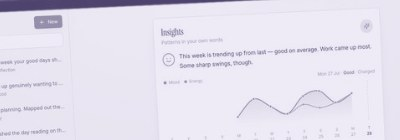
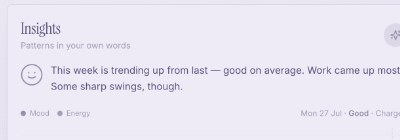
Board: the Between the Lines peek becomes a plain desktop print
The f3 folder sheet swaps the hero-photo print for a duotoned print of
the desktop app itself — the Insights card with the week's headline —
per her call; hero on the case study stays the laptop photo.

diff --git a/between-the-lines.html b/between-the-lines.html
@@ -562,10 +562,10 @@ const T = {
 /* ---- assets: every plate is real — captures from the running build,
    annotated plates and photo composites; no placeholders left. ---- */
 const ASSETS = {
-  /* hero: the real desktop capture composited into the laptop photo;
-     the same print, duotoned, peeks out of the folder on the board
-     (assets/folder-peek.html; compositing script sits next to the raw
-     photo sources, outside the repo) */
+  /* hero: the real desktop capture composited into the laptop photo
+     (compositing script sits next to the raw photo sources, outside
+     the repo); the board folder peeks a duotoned print of the plain
+     desktop capture instead (assets/folder-peek.html) */
   hero:{ type:'img', wide:true, src:'between-the-lines/assets/hero-photo.jpg',
     cap:{en:'An evening with the journal open: the week\'s entries on the left, the Insights card reading between them. The running build, composited into a photo.',
          no:'En kveld med dagboken åpen: ukens notater til venstre, innsiktskortet som leser mellom dem. Den kjørende appen, montert inn i et foto.'} },

diff --git a/index.html b/index.html
@@ -376,8 +376,8 @@ body{
   background:var(--accent-tint) url("RepApp/assets/folder-peek.jpg") center top/cover no-repeat;
 }
 .ready .obj[data-k="f1"].grab:hover .folder .sheet{transform:translateY(-30px);}
-/* f3 (Between the Lines): the sheet is a print of the case-study hero —
-   the journal open on a laptop, insight card up, duotoned into the
+/* f3 (Between the Lines): the sheet is a print of the desktop app —
+   the Insights card with the week's headline, duotoned into the
    board's lilac. */
 .obj[data-k="f3"] .folder .sheet{
   background:var(--accent-tint) url("between-the-lines/assets/folder-peek.jpg") center top/cover no-repeat;
